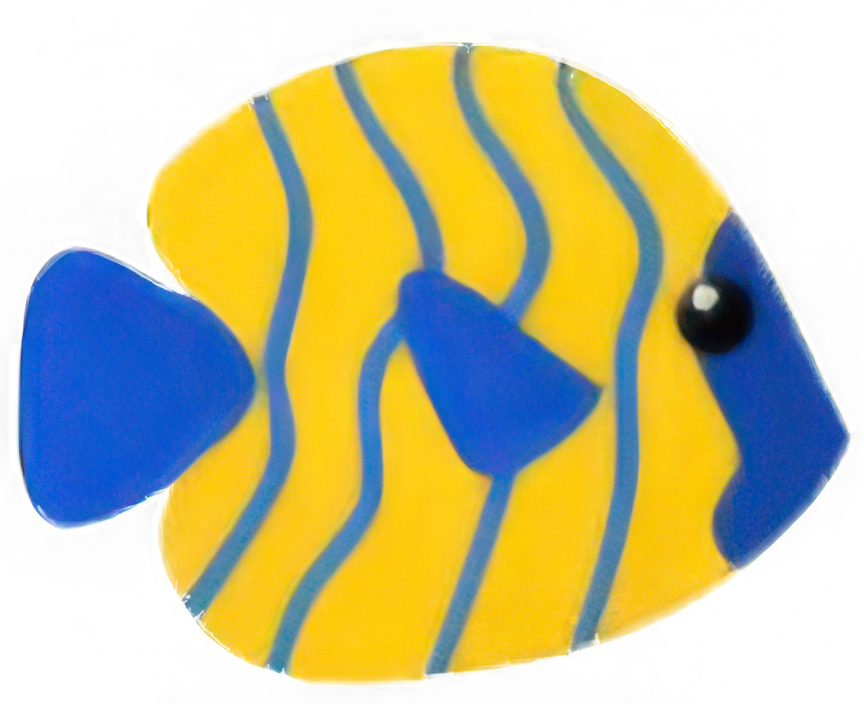
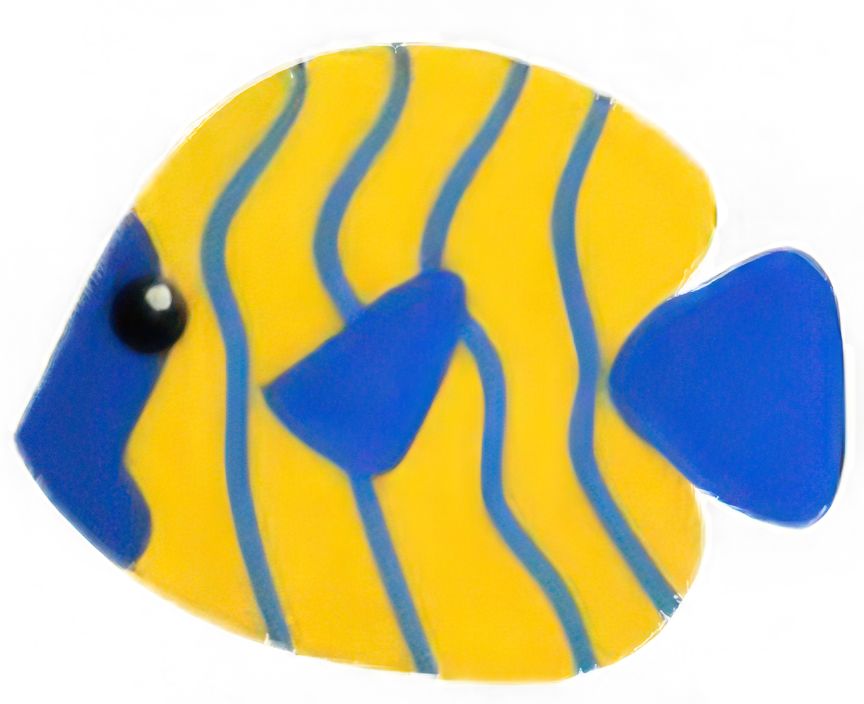
fixed fish rotation problem

diff --git a/src/Food.py b/src/Food.py
@@ -12,6 +12,8 @@ class Food():
         images = ["./assets/fish1.png","./assets/fish2.png","./assets/fish3.png","./assets/fish4.png","./assets/fish5.png"]
         self.image = pygame.image.load(images[random.randint(0,4)])
         self.image = pygame.transform.scale(self.image,(int(self.size*0.75),int(self.size*0.5)))
+        if rol == 0:
+            self.image = pygame.transform.flip(self.image, True, False)
         self.hitbox = self.image.get_rect()
         self.hitbox.topleft = (self.x,self.y)
         self.animation_timer_max = 16
@@ -19,7 +21,7 @@ class Food():
         self.swimming_frame = 0
         self.isvisible=True
 
-    def createfood(foodlist, screen):
+    def createfood(foodlist,screen):
         from main import difficulty
         if difficulty == "Easy":
             foodspawn = random.randint(0,20)
